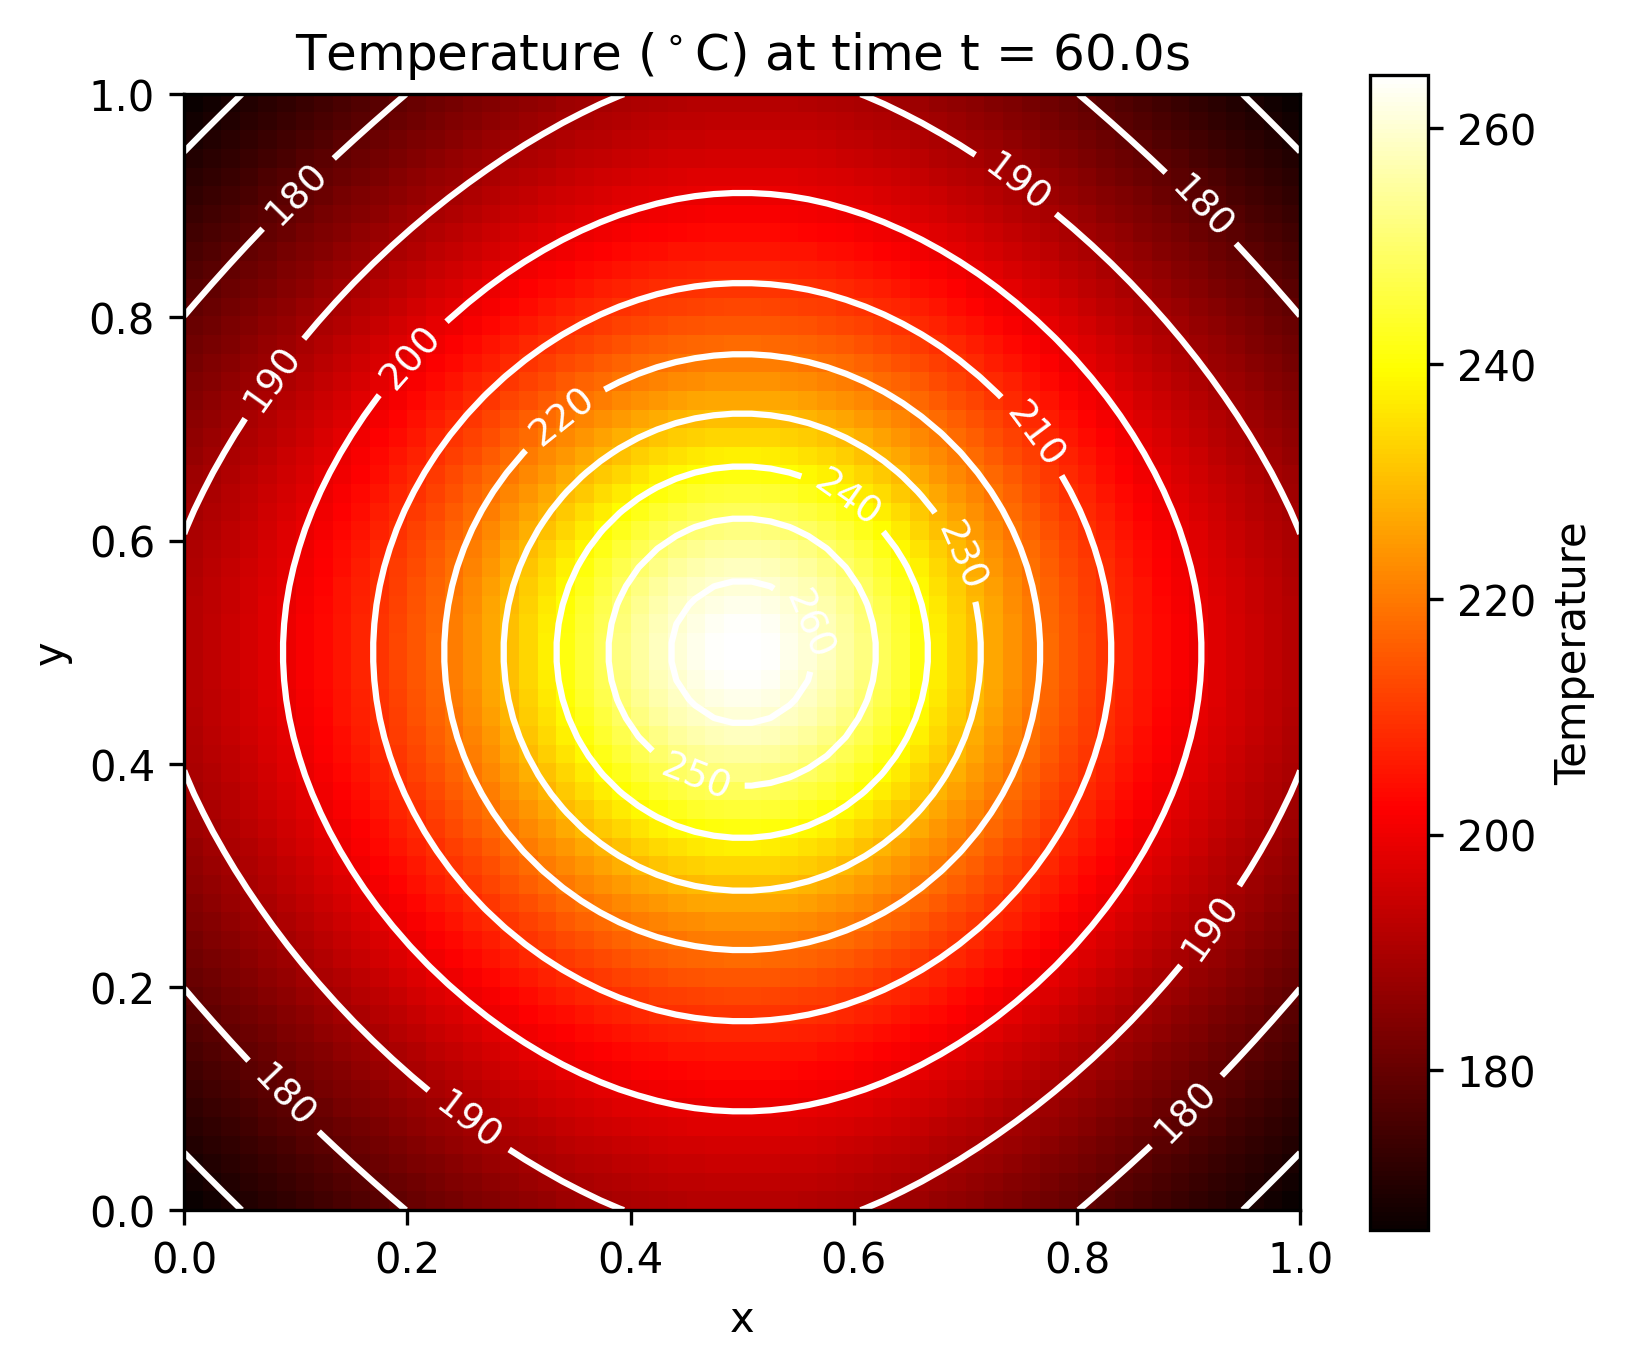
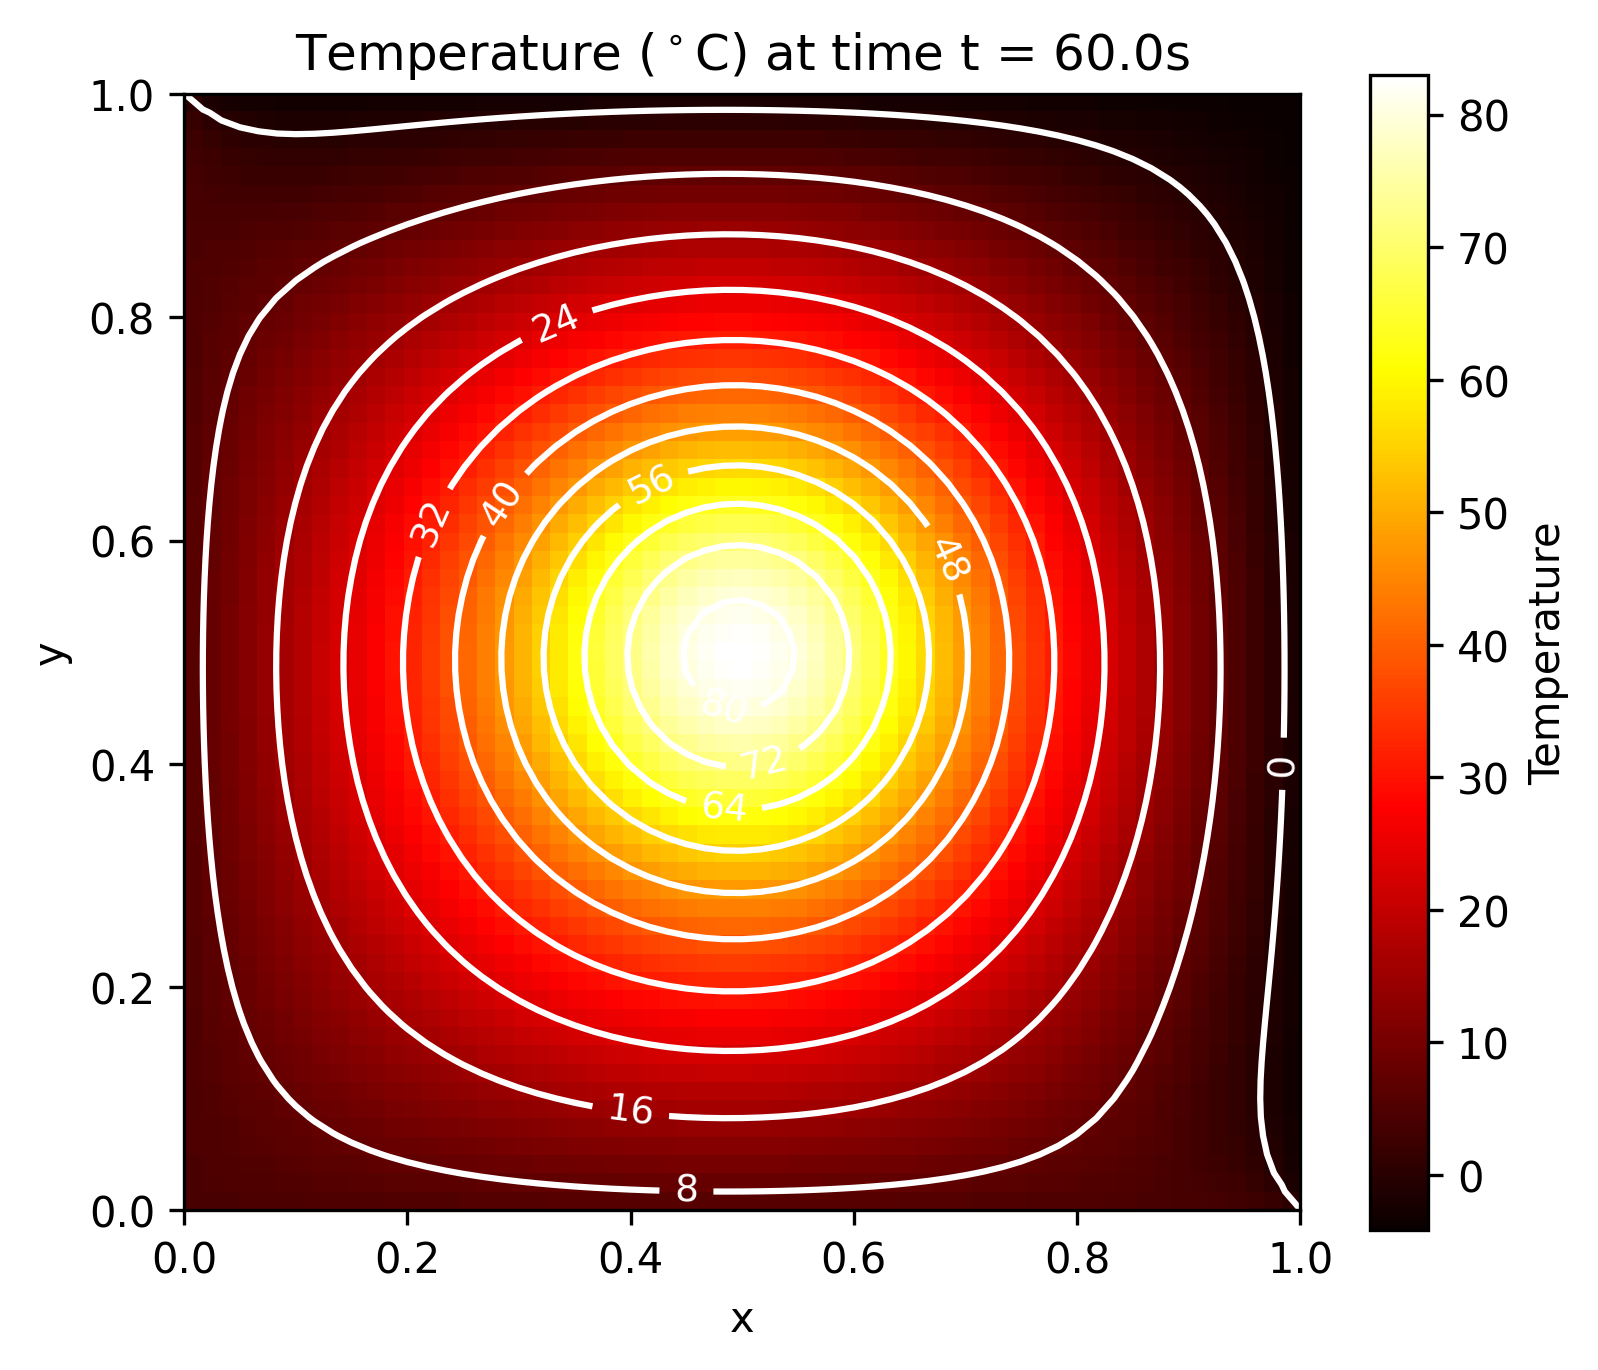
Crank-Nicolson updated. There is still an error in it.

diff --git a/Solver.Python/crank_nicolson.py b/Solver.Python/crank_nicolson.py
@@ -7,6 +7,16 @@ from boundary_conditions import HeatBoundaryCondition
 
 # 1) schnelle Matrix-/RHS-Checks
 def dbg_matrix_checks(solver):
+    vals = spla.eigs(solver.B, k=5, which='LM', return_eigenvectors=False)
+    print("max |λ(B)| =", np.max(np.abs(vals)))
+
+    # 1) größter reeller Eigenwert von Lh (LR = largest real part)
+    eig_Lh = spla.eigs(solver.Lh, k=1, which='LR', return_eigenvectors=False)
+    print("largest eigenvalue of Lh:", eig_Lh[0])
+
+    # 2) kleinster (most negative) Eigenwert
+    eig_Lh_min = spla.eigs(solver.Lh, k=1, which='SR', return_eigenvectors=False)
+    print("smallest eigenvalue of Lh:", eig_Lh_min[0])
     print("Lh: shape", solver.Lh.shape, "nnz", solver.Lh.nnz)
     print("A: shape", solver.A.shape, "nnz", solver.A.nnz)
     print("B: shape", solver.B.shape, "nnz", solver.B.nnz)
@@ -70,9 +80,7 @@ def build_D1(N, h, alpha_left, beta_left, g_left,
         q[-1]    = -2.0 * g_right / (beta_right * h)
 
     D = sp.diags([off1, main, off2], offsets=[-1,0,1], shape=(npts, npts), format='csr')
-    return D, -q
-
-# Wir nehmen an, HeatBoundaryCondition hat .to_tuple_x()/.to_tuple_y() wie vorher
+    return D, q
 
 # --- (build_D1, build_L_h, crank_nicolson_matrices unverändert, außer kleine Anpassungen) ---
 # Ich nehme hier an, diese Funktionen sind identisch zu Ihrer bisherigen Implementierung,
@@ -84,6 +92,7 @@ class HeatCrankNicolsonSolver():
         """
         nx, ny: Anzahl Intervalle (nicht Anzahl Punkte). Punkte sind nx+1, ny+1.
         """
+        self.mu = 0.0
         self.alpha = alpha
         self.dt = dt
         self.dx = dx
@@ -98,27 +107,13 @@ class HeatCrankNicolsonSolver():
         self.lamx = self.alpha * self.dt / dx**2
         self.lamy = self.alpha * self.dt / dy**2
         self.Lh = None
+        self._factor = None
 
         # Aufbau Matrizen
         self.build_L_h()
         self.crank_nicolson_matrices(self.alpha)
 
-        
-
-        vals = spla.eigs(self.B, k=5, which='LM', return_eigenvectors=False)
-        print("max |λ(B)| =", np.max(np.abs(vals)))
-
-        # 1) größter reeller Eigenwert von Lh (LR = largest real part)
-        eig_Lh = spla.eigs(self.Lh, k=1, which='LR', return_eigenvectors=False)
-        print("largest eigenvalue of Lh:", eig_Lh[0])
-
-        # 2) kleinster (most negative) Eigenwert
-        eig_Lh_min = spla.eigs(self.Lh, k=1, which='SR', return_eigenvectors=False)
-        print("smallest eigenvalue of Lh:", eig_Lh_min[0])
         dbg_matrix_checks(self)
-
-        # faktorisierter Solver (optional) - erst nachdem A gesetzt ist
-        self._factor = None
 
     def build_L_h(self):
         Dx, qx_left = build_D1(self.nx, self.dx, *self.robin_x)
@@ -133,11 +128,25 @@ class HeatCrankNicolsonSolver():
 
     def crank_nicolson_matrices(self, kappa):
         n = self.Lh.shape[0]
-        I = sp.identity(n)
-        self.A = (I - 0.5 * self.dt * kappa * self.Lh).tocsr()
-        self.B = (I + 0.5 * self.dt * kappa * self.Lh).tocsr()
-        # Faktorisiere A einmal (schnellere Lösung in step)
-        self._factor = spla.factorized(self.A)
+        # Use csc for SuperLU
+        I = sp.identity(n, format='csc')
+        Lh_csr = self.Lh.tocsr()
+        A = (I - (1 - self.mu) * self.dt * kappa * Lh_csr)
+        B = (I + self.mu * self.dt * kappa * Lh_csr)
+        # keep them in sparse formats you need:
+        self.A = A.tocsc()    # important: factorization likes csc
+        self.B = B.tocsr()
+
+        # Factorize once with SuperLU (fast apply later)
+        # spla.factorized expects csc/CSR (returns function calling SuperLU)
+        try:
+            fa = None
+            fa = spla.factorized(self.A) 
+            self._factor = spla.factorized(self.A)  # returns function rhs -> x
+        except Exception:
+            # fallback: precompute splu object and wrap it
+            self._splu = spla.splu(self.A)
+            self._factor = lambda rhs: self._splu.solve(rhs)
 
     def check_stability(self):
         stability_number = self.lamx + self.lamy
@@ -145,6 +154,7 @@ class HeatCrankNicolsonSolver():
 
     def step(self, u, f = None):
         # Akzeptiere sowohl 2D als auch 1D u:
+        
         input_was_2d = (u.ndim == 2)
         if input_was_2d:
             # In Ihrer Kronecker-Bauweise ist die Ordnung lexicographisch
@@ -161,19 +171,33 @@ class HeatCrankNicolsonSolver():
             else:
                 f_vec = f
 
-        # RHS (inkl. Rand-Q)
+        # print(f"self.dt: { self.dt }")
+        p0 = u_vec
+        p1 = 25.0*self.B.dot(np.ones_like(u_vec))
+        p2 = self.B.dot(u_vec)
+        p3 = self.dt * f_vec
+        p4 = self.dt * self.q_total
+
+        #for i, p in enumerate([p0, p1, p2, p3, p4], start=1):
+            #print(f"Part {i} max: {np.max(p):.6e}, mean: {np.mean(p):.6e}")
+
         # if f_vec is old and new
         # rhs = self.B.dot(u_vec) + 0.5*self.dt*(f_vec + f_vec) + 0.5*self.dt*(self.q_total + self.q_total)
         rhs = self.B.dot(u_vec) + self.dt * (f_vec + self.q_total)
+        # rhs = p0 + p3 + p4
+        #print(f"RHS MAX: {np.mean(rhs)}")
         # print(f"rhs max: {rhs.max()}")
+
+        print(f"Shape: {u_vec.shape}")
 
         # Löse (verwende faktorisierten Solver falls vorhanden)
         if self._factor is not None:
-            u_new_vec = spla.spsolve(self.A, rhs)
-            # u_new_vec = self._factor(rhs)
+            u_new_vec = self._factor(rhs)
         else:
             u_new_vec = spla.spsolve(self.A, rhs)
 
+        #print(f"Means: u old: {np.mean(u_vec)}, u new: {np.mean(u_new_vec)}")
+        #print(f"Maxs: u old: {np.max(u_vec)}, u new: {np.max(u_new_vec)}")
         if input_was_2d:
             u_new = u_new_vec.reshape((self.ny+1, self.nx+1), order='C')
             return u_new

diff --git a/Solver.Python/frame_data.py b/Solver.Python/frame_data.py
@@ -9,4 +9,4 @@ class FrameData:
 
 # frame1 = FrameData(1.0, 1.0, 3.5, 60, 60, 14400)
 frame1 = FrameData(1.0, 1.0, 60.0, 60, 60, 288000)
-frame2 = FrameData(1.0, 1.0, 60.0, 30, 30, 288000)
+frame2 = FrameData(1.0, 1.0, 60.0, 30, 300, 288000)
